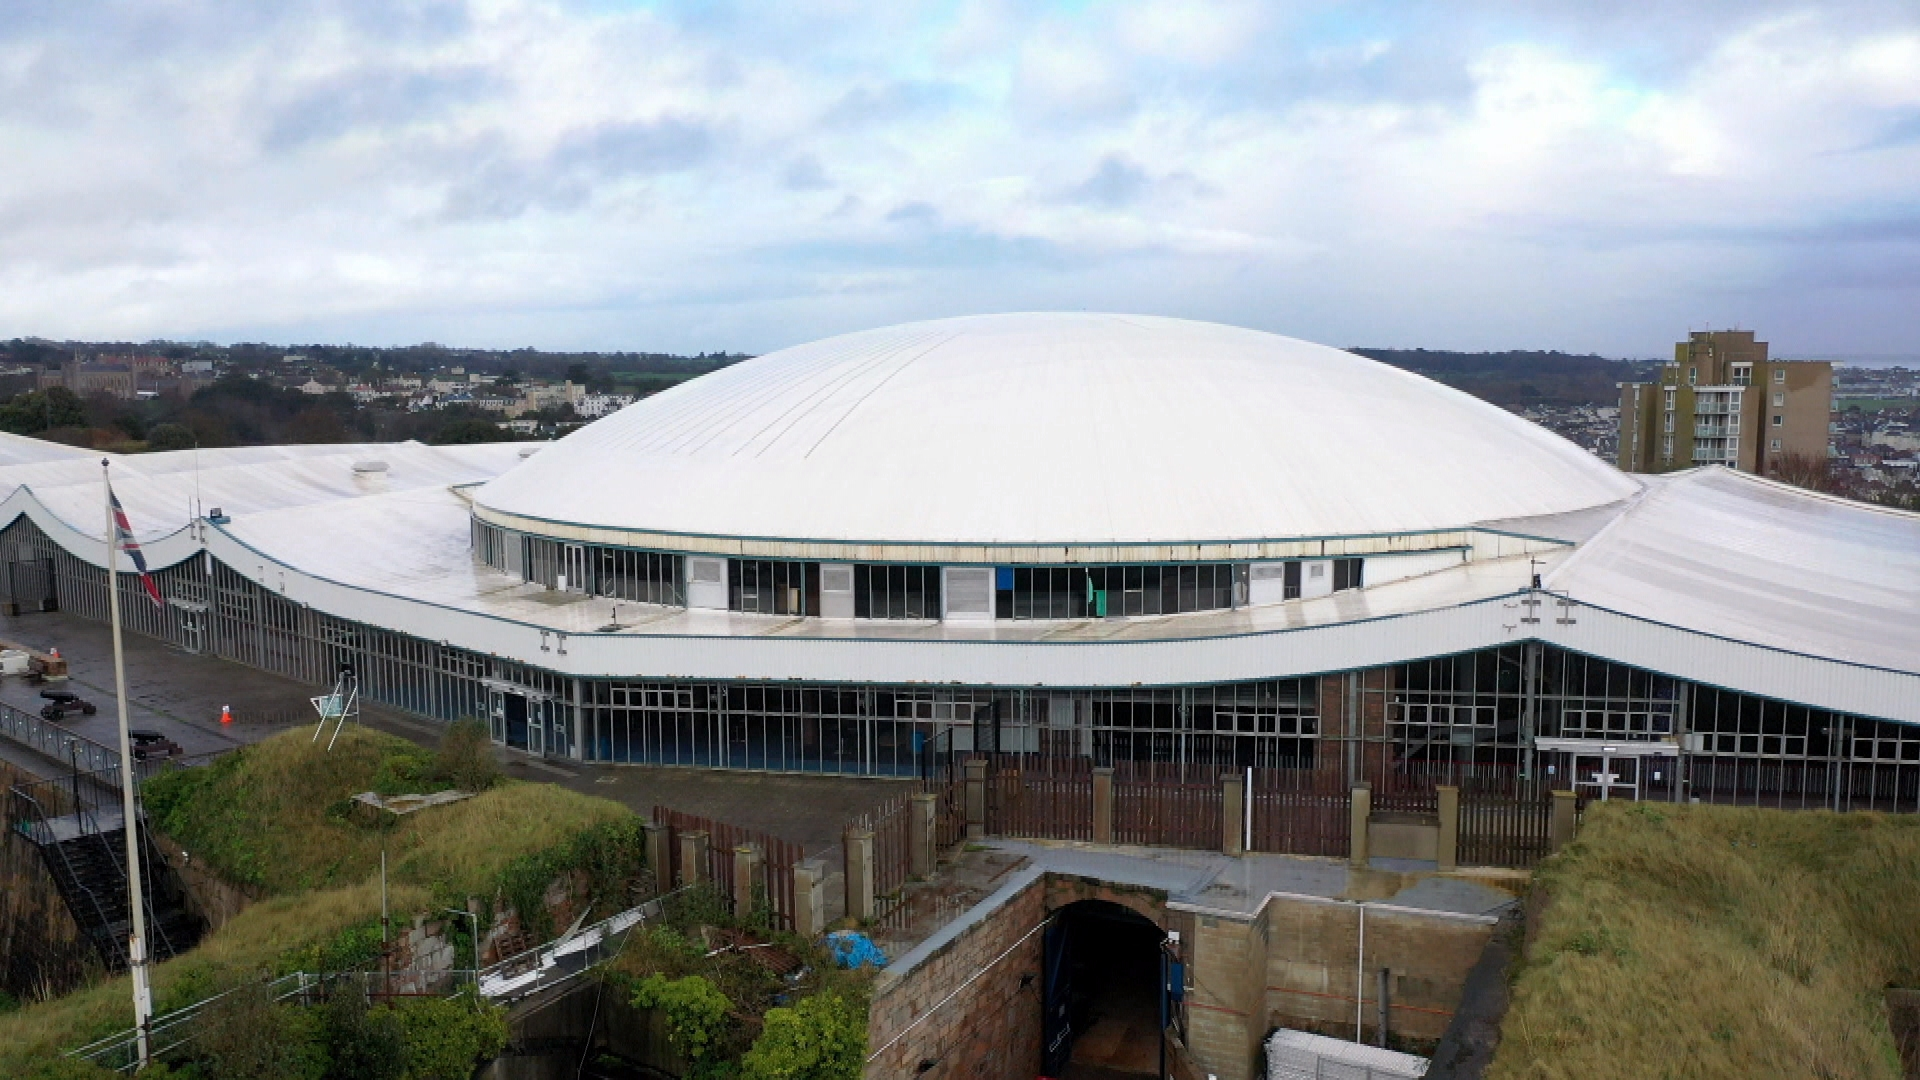
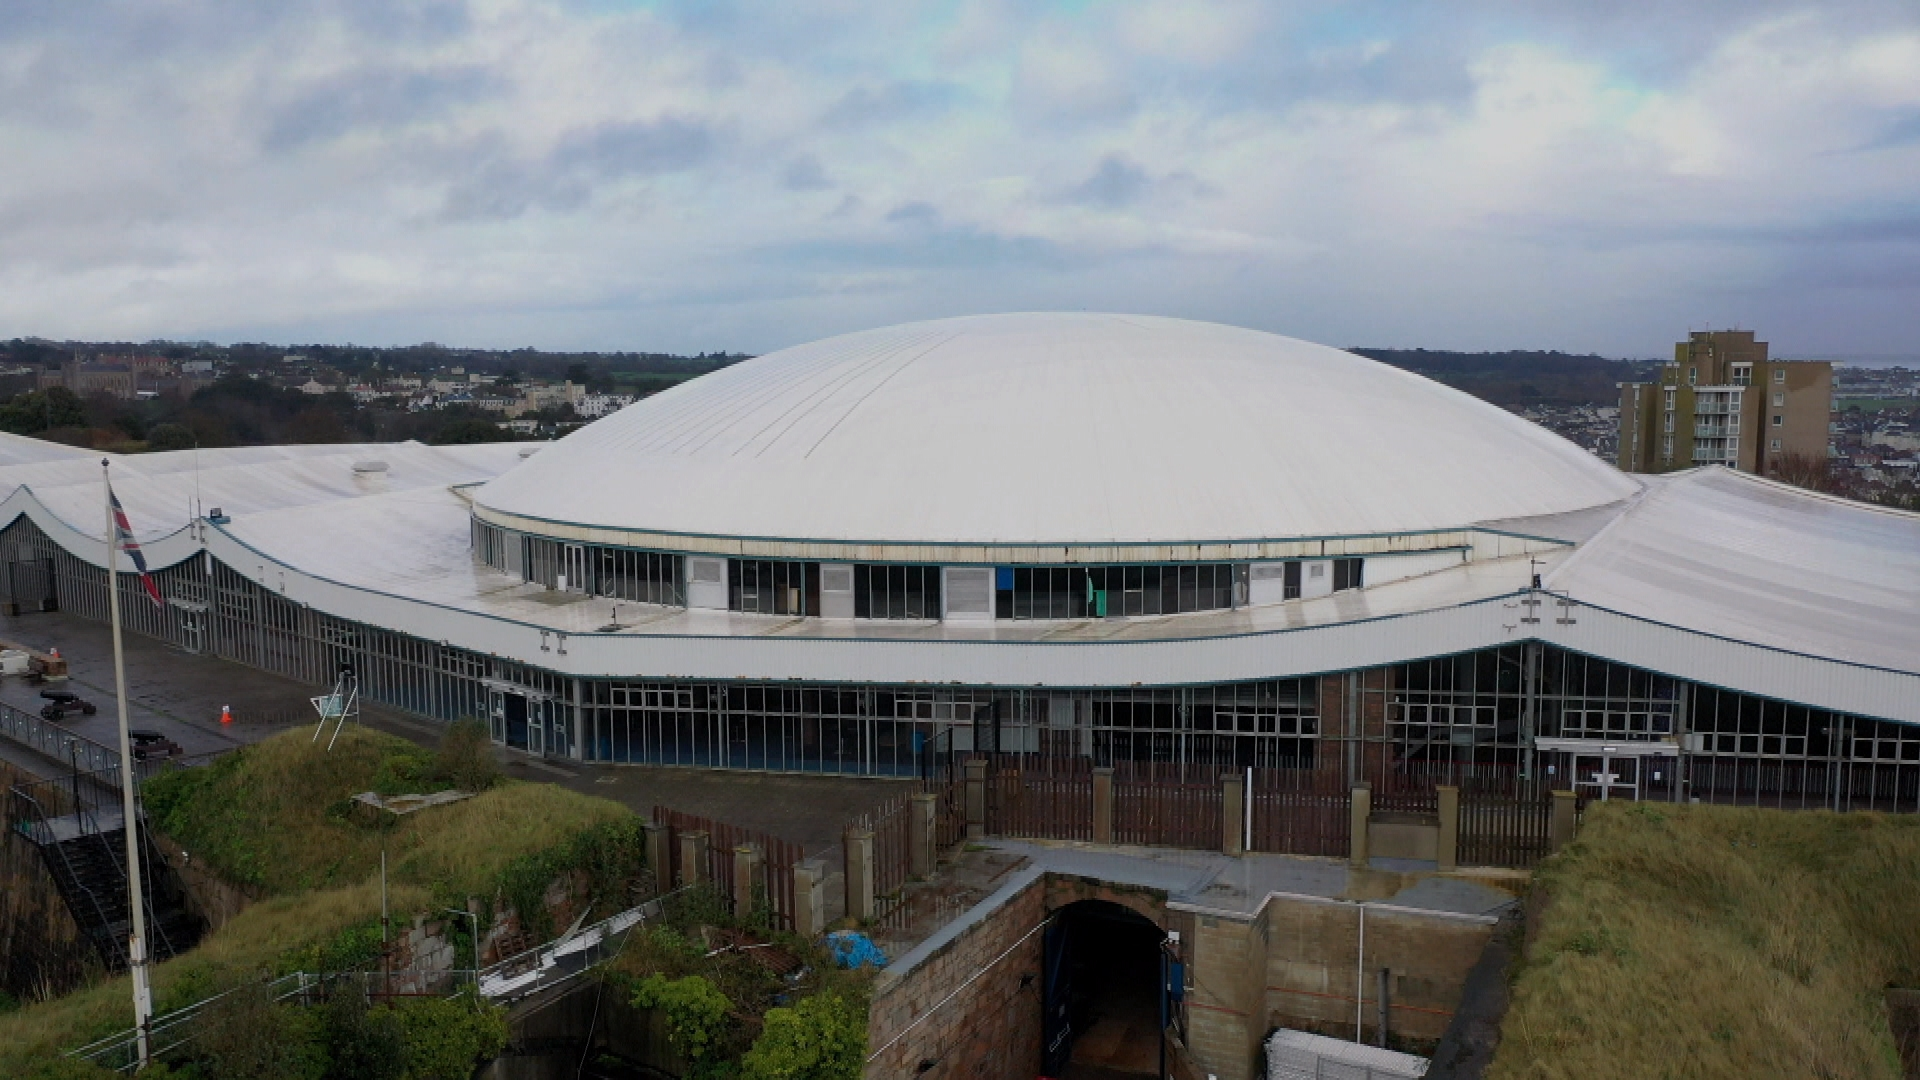
iOS doesn't want to play ball, fall back to using image

diff --git a/style.css b/style.css
@@ -54,7 +54,7 @@ h1 {
 @media screen and (max-width: 768px) {
     .announcement {
         padding: 8px 15px;
-        
+
     }
 
     .announcement-text {
@@ -70,6 +70,22 @@ h1 {
     max-height: 100vh;
     object-fit: cover;
 }
+
+.header-bg-image {
+    width: 100%;
+    height: 100vh;
+    background-image: url(media/fort.png);
+    background-position: center;
+    background-repeat: no-repeat;
+    background-attachment: fixed;
+}
+
+@supports (-webkit-touch-callout: inherit) {
+    .header-bg-image {
+        background-attachment: scroll;
+    }
+}
+
 
 .header-text {
     padding: 20px;
@@ -305,7 +321,7 @@ footer a {
     .help-item h2 {
         font-size: 22px;
     }
-    
+
     .help-item p {
         font-size: 20px;
     }

diff --git a/index.html b/index.html
@@ -32,9 +32,9 @@
         <a class="announcement-button" href="#next-meeting">View Details</a>
     </div>
     <div class="header">
-        <video class="header-bg-video" autoplay playsinline muted loop>
+        <video class="header-bg-video" autoplay playsinline muted loop poster="media/fort.png">
             <source src="media/fort-regent.mp4" type="video/mp4">
-            Your browser is not supported!
+            <div class="header-bg-image"></div>
         </video>
 
         <div class="header-text">
